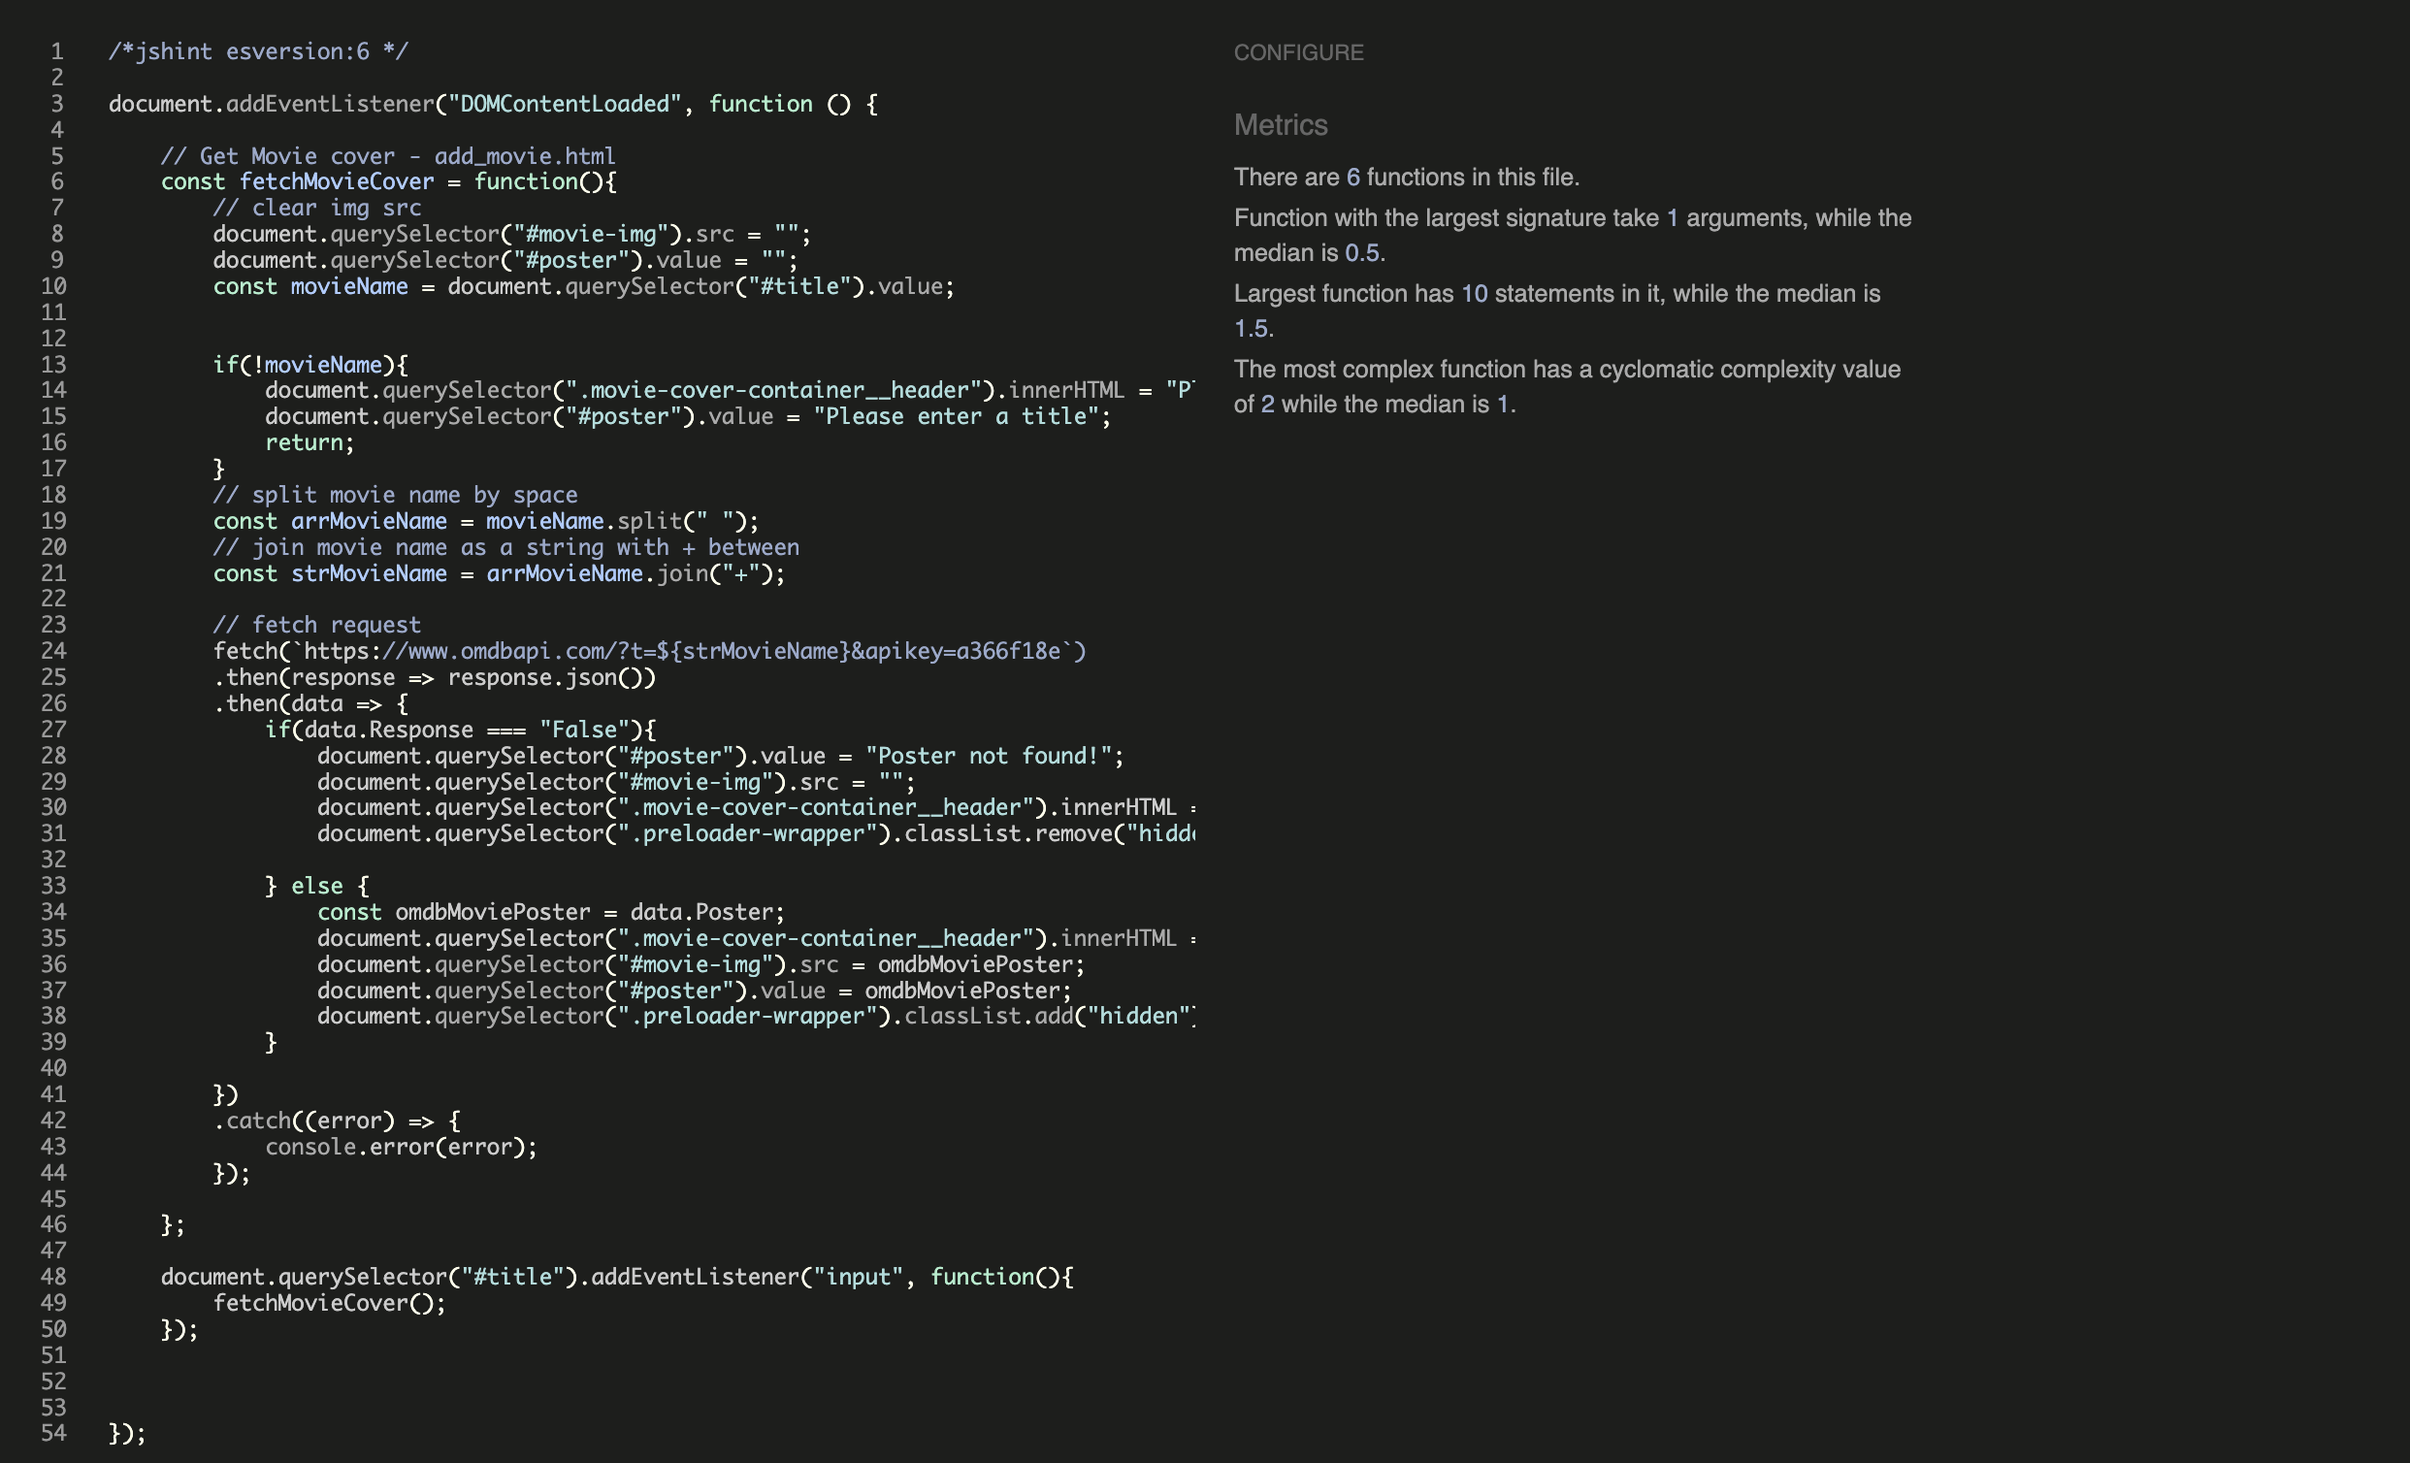
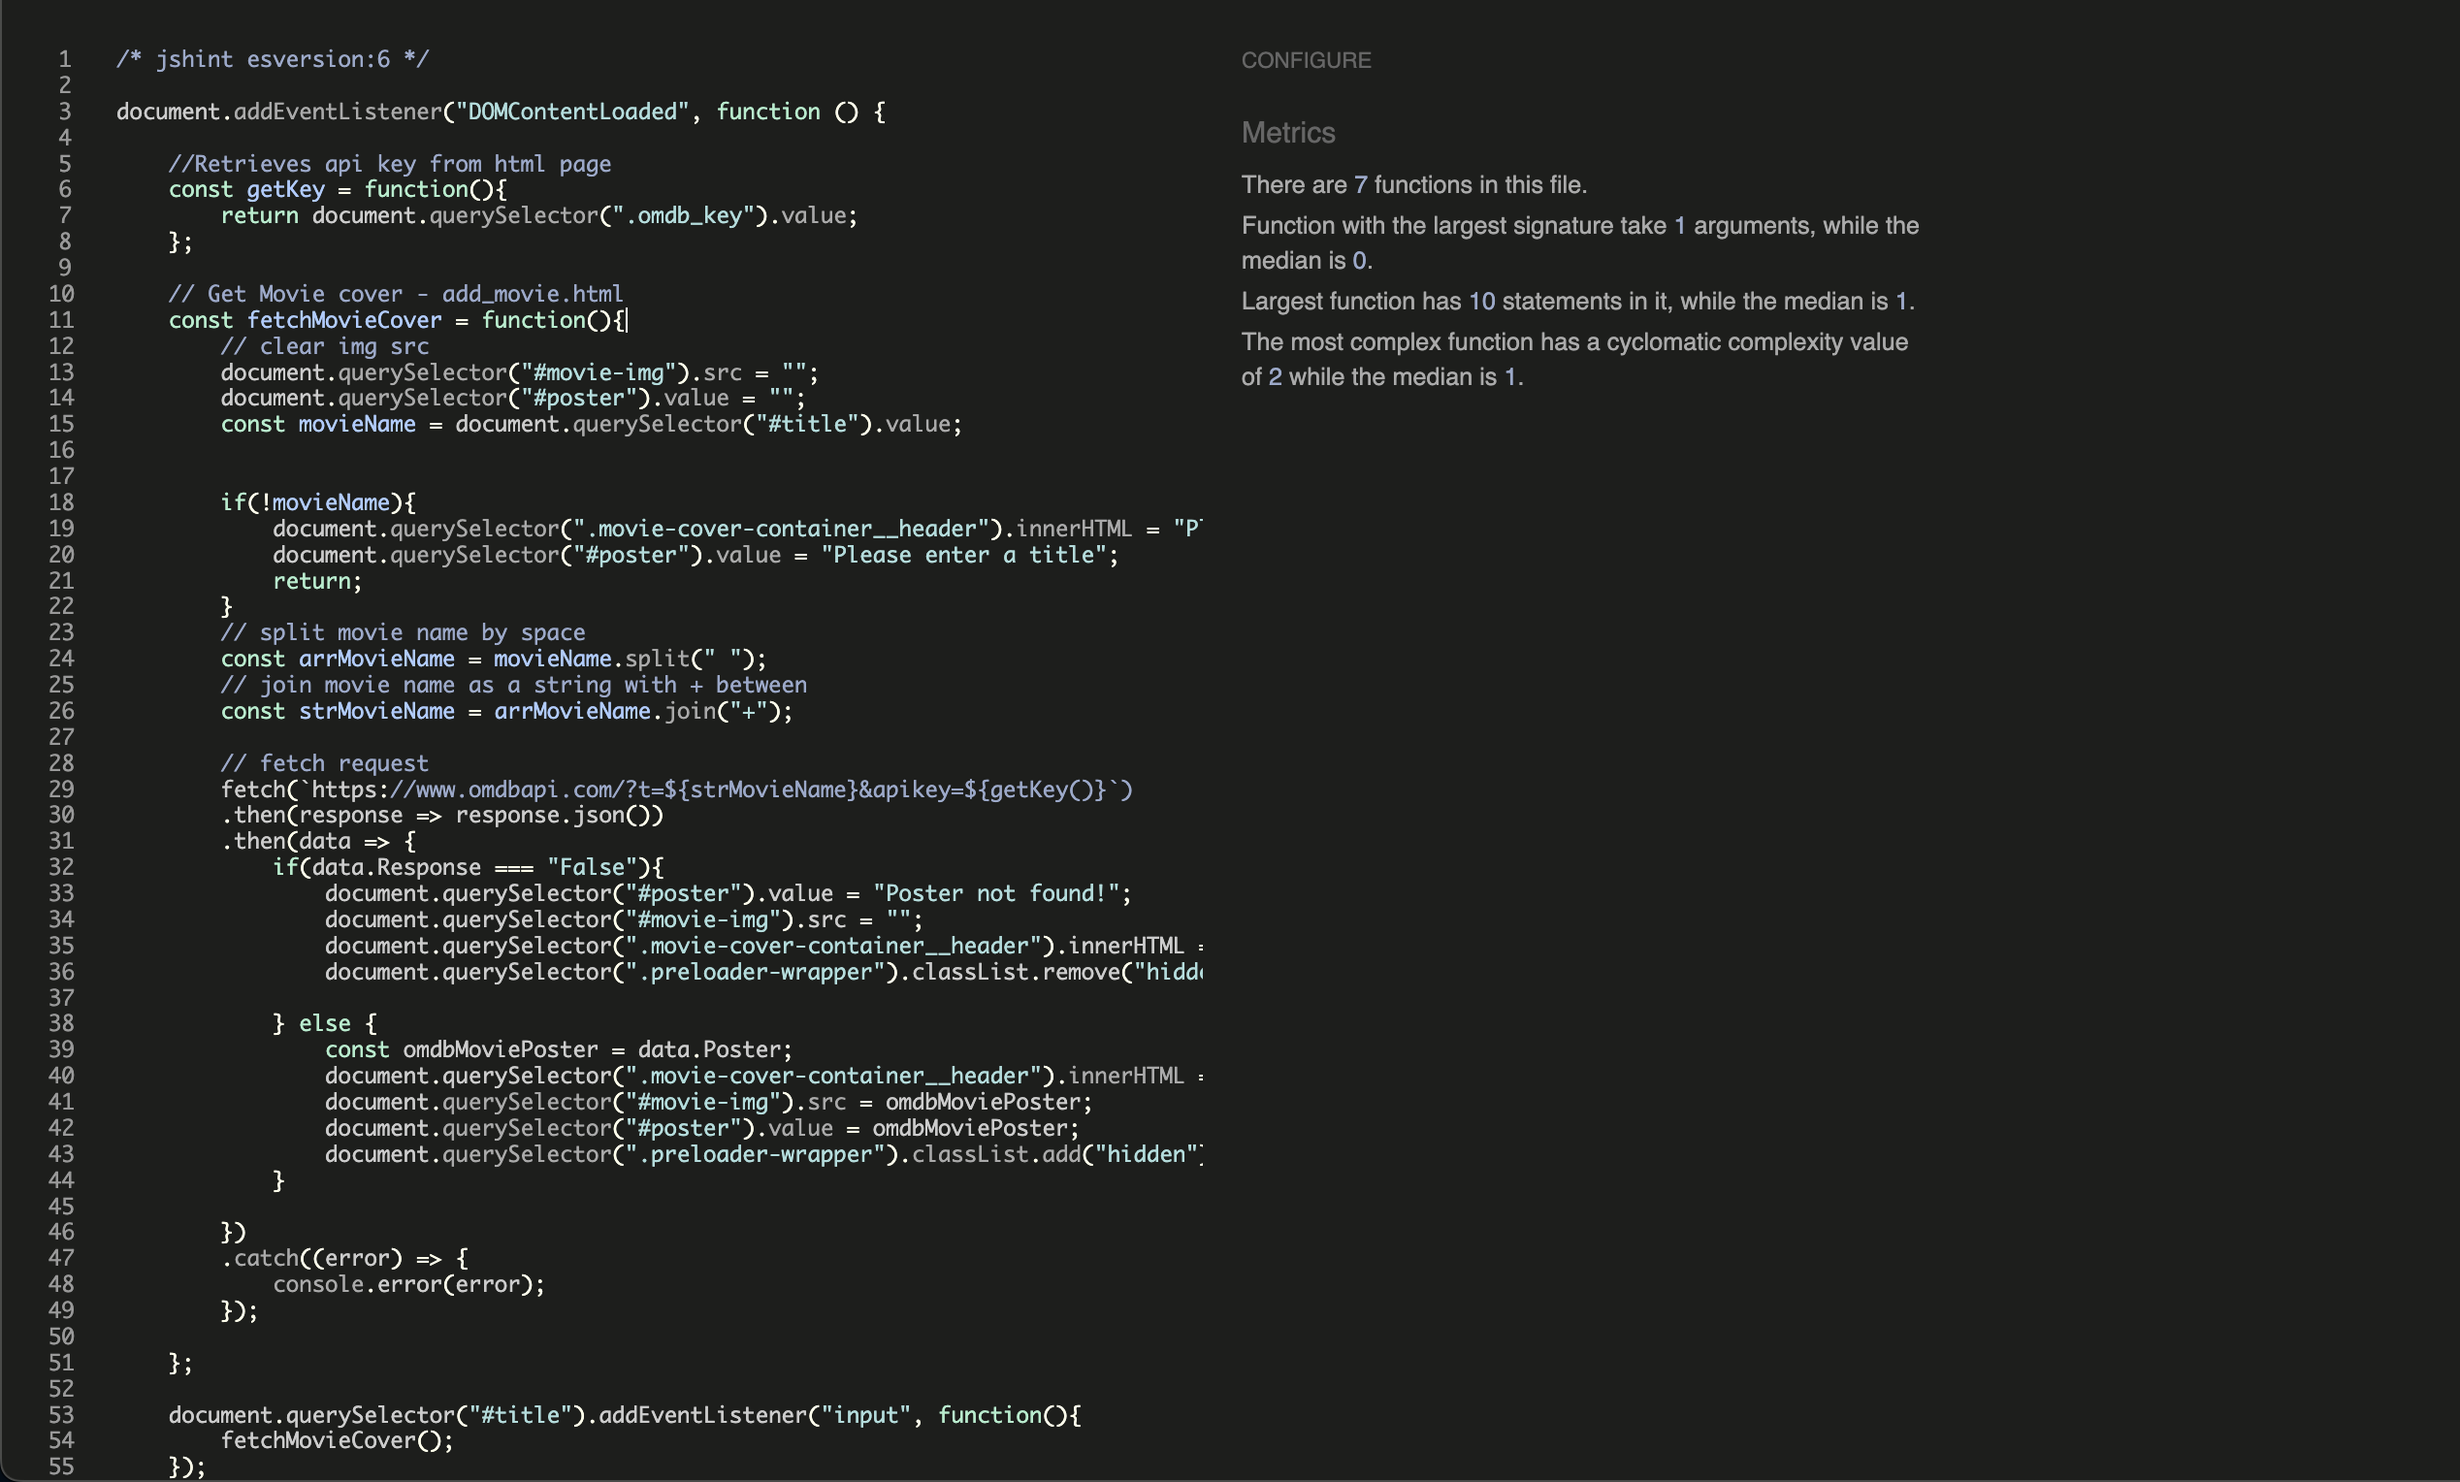
docs: upload js validation

Changed region(s): [[0.0, 0.0312, 1.0, 1.0], [0.496, 0.0312, 0.806, 0.2805]]

diff --git a/static/js/fetch_movie_poster.js b/static/js/fetch_movie_poster.js
@@ -1,6 +1,9 @@
 document.addEventListener("DOMContentLoaded", function () {
     
-    const omdbAPIKey = document.querySelector(".omdb_key").value;
+    //Retrieves api key from html page 
+    const getKey = function(){
+        return document.querySelector(".omdb_key").value;
+    }
 
     // Get Movie cover - add_movie.html
     const fetchMovieCover = function(){
@@ -21,7 +24,7 @@ document.addEventListener("DOMContentLoaded", function () {
         const strMovieName = arrMovieName.join("+");
 
         // fetch request
-        fetch(`https://www.omdbapi.com/?t=${strMovieName}&apikey=${omdbAPIKey}`)
+        fetch(`https://www.omdbapi.com/?t=${strMovieName}&apikey=${getKey()}`)
         .then(response => response.json())
         .then(data => {
             if(data.Response === "False"){
@@ -48,7 +51,5 @@ document.addEventListener("DOMContentLoaded", function () {
     document.querySelector("#title").addEventListener("input", function(){
         fetchMovieCover();
     });
-
-    
 
 });
